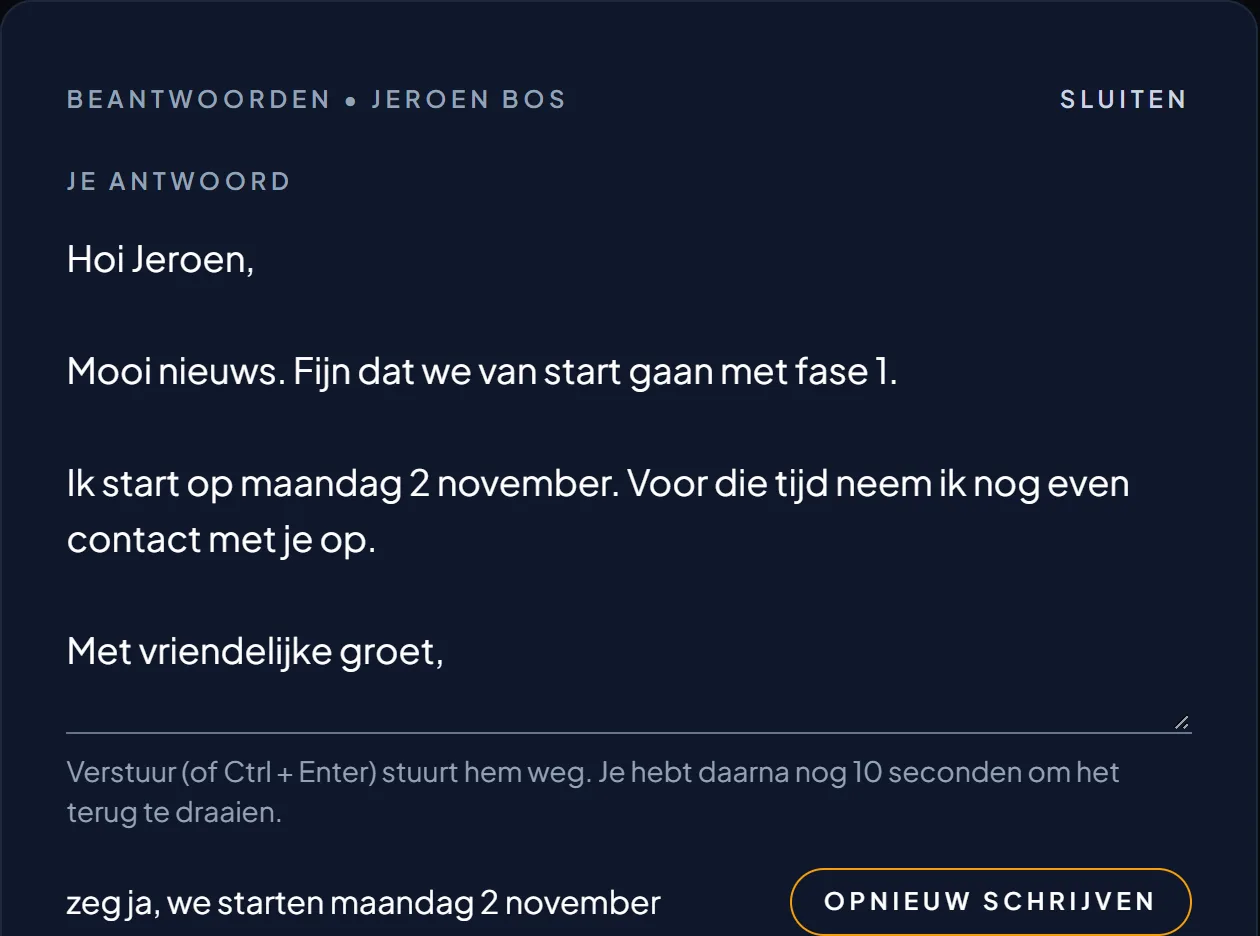
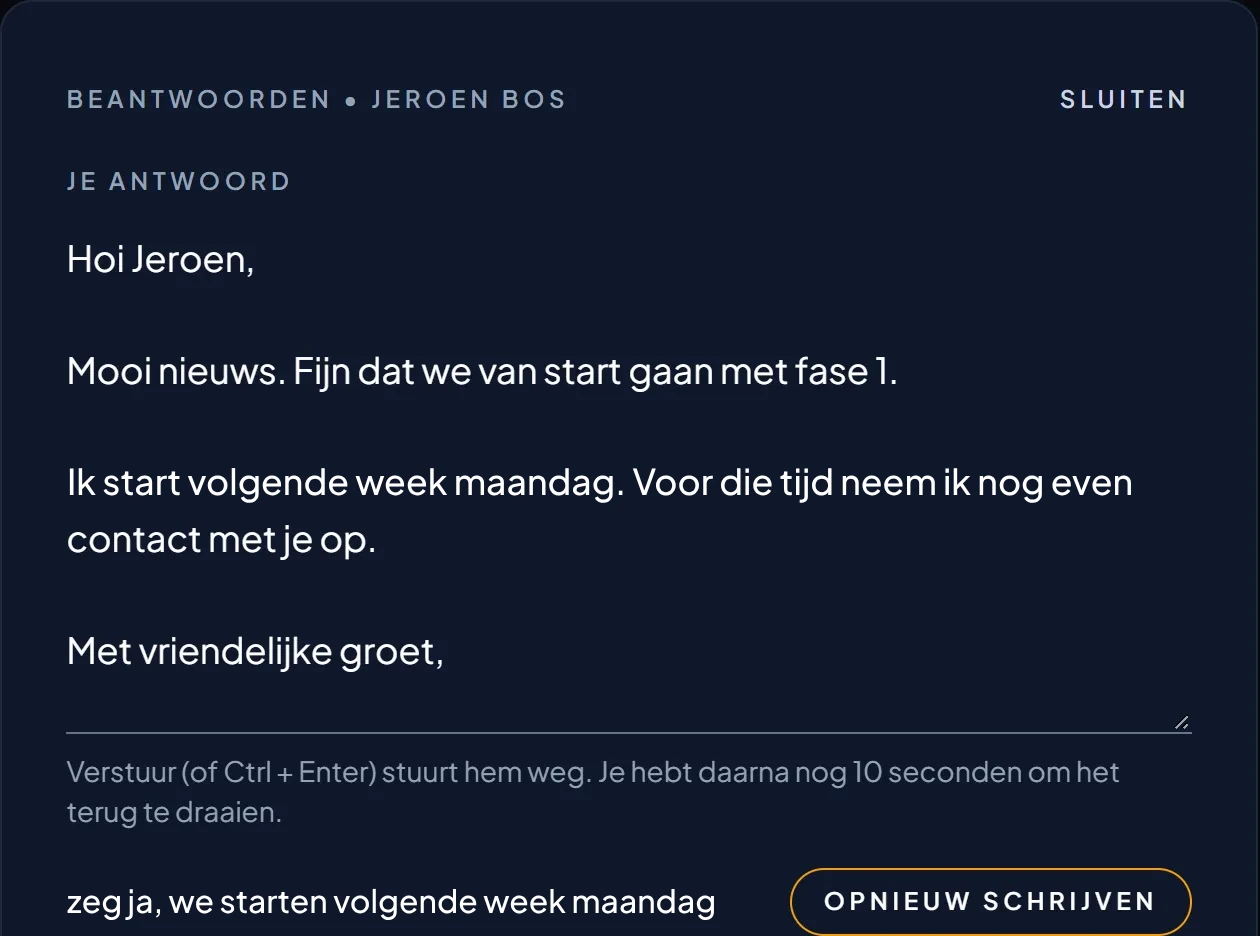
Externe check van 2 november verwerkt
- Film: "maandag 2 november" wordt "volgende week maandag", zodat het beeld niet veroudert
- Afspeelknop rechtsboven op het beeld, op de telefoon alleen de afspeelknop, zodat hij geen tekst bedekt
- Werk: de kaart vertelt nu de vraag (losse programma's), wat ik maakte en wat het opleverde
- Over: eerste zin met "goed in hun vak", consultancy in de verleden tijd, "voor iets groters", dubbele "Lezen doe ik zelf" eruit
- Aanpak: "Daarom duurt een eerste versie twee weken en geen middag", stap 4 "Iets wat je echt gebruikt"
- Begin: "je werk van de eerste aanvraag tot de factuur, je website en de programma's"; "Je spreekt altijd met mij"
- Rekenhulp: kleine getallen in woorden ("ruim drie werkweken")
- Privacy "van me", Over-beschrijving "grote bedrijven", kaart "Een huisstijl voor AI"

Claude-Session: https://claude.ai/code/session_01SC8LXNwsV7QgXano5ofpd4

Changed region(s): [[0.0619, 0.4957, 0.8976, 0.5577], [0.0619, 0.9295, 0.5881, 0.9915]]

diff --git a/src/pages/Over.tsx b/src/pages/Over.tsx
@@ -54,7 +54,7 @@ export function Over() {
             Martijn
           </h1>
           <Typography variant="lead" className="max-w-xl text-xl sm:text-2xl md:text-2xl lg:text-2xl text-pretty">
-            Ik help ondernemers die vastlopen in het digitale eromheen. Met AI maak ik in korte tijd iets wat je kunt{" "}
+            Ik help ondernemers die goed zijn in hun vak, maar vastlopen in het digitale eromheen. Met AI maak ik in korte tijd iets wat je kunt{" "}
             <em className="italic font-normal">gebruiken</em>.
           </Typography>
         </div>
@@ -90,13 +90,13 @@ export function Over() {
           ) : (
             "mijn eigen programma"
           )}
-          . Outlook hoef ik niet meer te openen. Lezen doe ik nog steeds zelf.
+          . Outlook hoef ik niet meer te openen.
         </p>
       </Row>
 
       <Row id="gezien" title="Ik zag hoe techniek het werk zwaarder kan maken">
         <p>
-          Vanuit consultancy bepaal ik al tien jaar bij grote bedrijven in verschillende sectoren wat er gemaakt wordt en
+          In tien jaar consultancy bij grote bedrijven in verschillende sectoren bepaalde ik wat er gemaakt werd en
           waarom. Steeds zag ik hetzelfde: schermen
           die ingewikkelder waren dan nodig en stappen met de hand die het werk ophielden. Het extra werk kwam terecht bij
           de mensen die het al druk hadden.
@@ -106,8 +106,8 @@ export function Over() {
       <Row id="ervaring" title="Wat ik daar leerde, gun ik ook ondernemers">
         <p>
           Een ondernemer heeft meestal niemand in huis die het digitale eromheen al eens heeft ingericht. Ik neem die
-          ervaring mee, zonder de lange trajecten en vergaderingen. Maken kon ik altijd al, maar vaak waren er meerdere
-          mensen voor nodig. Met AI doe ik het nu zelf, in korte tijd.
+          ervaring mee, zonder de lange trajecten en vergaderingen. Maken kon ik altijd al, maar voor iets groters waren
+          vaak meerdere mensen nodig. Met AI doe ik het nu zelf, in korte tijd.
         </p>
         <p>
           Daarom begon ik Studio Kopwerk. Ik heb inmiddels zoveel gezien dat een kleine ingreep vaak al genoeg is om je
@@ -115,7 +115,7 @@ export function Over() {
         </p>
       </Row>
 
-      <Row id="verwachten" title="Je spreekt steeds met mij">
+      <Row id="verwachten" title="Je spreekt altijd met mij">
         <p>
           Het eerste gesprek kan bij jou op de zaak. Ik praat over je werk, niet over techniek.
         </p>

diff --git a/src/components/werk/ProjectCard.tsx b/src/components/werk/ProjectCard.tsx
@@ -33,11 +33,12 @@ function FilmTrigger({ project, children }: { project: Project; children: ReactN
         className="group relative block w-full text-left rounded-2xl"
       >
         <span className="block overflow-hidden rounded-2xl">{children}</span>
-        <span className="absolute left-4 bottom-4 inline-flex items-center gap-3 rounded-full bg-kopwerk-dark/85 pl-2 pr-5 py-2 text-xs font-semibold tracking-wide-xl uppercase text-white shadow-xl shadow-kopwerk-dark/20 backdrop-blur-sm">
+        {/* Top right, over the screen's own chrome rather than its text; on phones only the play disc */}
+        <span className="absolute right-3 top-3 sm:right-4 sm:top-4 inline-flex items-center gap-3 rounded-full bg-kopwerk-dark/85 p-2 sm:pr-5 text-xs font-semibold tracking-wide-xl uppercase text-white shadow-xl shadow-kopwerk-dark/20 backdrop-blur-sm">
           <span className="flex size-8 items-center justify-center rounded-full bg-white/15 transition-colors duration-500 ease-kopwerk group-hover:bg-amber-400 group-focus-visible:bg-amber-400">
             <Icon name="play" className="size-3.5 translate-x-px transition-colors duration-500 ease-kopwerk group-hover:text-slate-950 group-focus-visible:text-slate-950" />
           </span>
-          Bekijk hoe het werkt
+          <span className="sr-only sm:not-sr-only">Bekijk hoe het werkt</span>
         </span>
       </button>
       {/* If the film can't load (offline, or a stale tab after a deploy), the click does nothing rather than break the page */}

diff --git a/src/components/werk/Rekenhulp.tsx b/src/components/werk/Rekenhulp.tsx
@@ -3,13 +3,17 @@ import { useId, useState, type ChangeEvent } from 'react';
 // Working weeks in a year, after holidays.
 const WEKEN = 46;
 
+// Small numbers in running text are written as words, like everywhere else on the site.
+const woorden = ['nul', 'een', 'twee', 'drie', 'vier', 'vijf', 'zes', 'zeven', 'acht', 'negen', 'tien', 'elf', 'twaalf'];
+const inWoorden = (n: number) => woorden[n] ?? String(n);
+
 /** What the hours come down to, in days or weeks you get back. */
 function vertaling(uren: number) {
   const weken = uren / 40;
-  if (weken >= 1.5) return `Dat zijn ruim ${Math.floor(weken)} werkweken die je aan je vak kunt besteden.`;
+  if (weken >= 1.5) return `Dat zijn ruim ${inWoorden(Math.floor(weken))} werkweken die je aan je vak kunt besteden.`;
   if (weken >= 0.75) return 'Dat is bijna een hele werkweek.';
   const dagen = Math.max(1, Math.round(uren / 8));
-  return dagen === 1 ? 'Dat is een werkdag die je terugkrijgt.' : `Dat zijn ${dagen} werkdagen die je terugkrijgt.`;
+  return dagen === 1 ? 'Dat is een werkdag die je terugkrijgt.' : `Dat zijn ${inWoorden(dagen)} werkdagen die je terugkrijgt.`;
 }
 
 /**

diff --git a/src/pages/Home.tsx b/src/pages/Home.tsx
@@ -110,8 +110,8 @@ export function Home() {
               digitale eromheen.
             </Typography>
             <Typography variant="sublead" className="max-w-xl text-balance">
-              Wij maken het eenvoudig met AI: van de eerste aanvraag tot de factuur, met je website en de programma's die daarbij
-              horen.
+              Wij maken het eenvoudig met AI: je werk van de eerste aanvraag tot de factuur, je website en de programma's die
+              daarbij horen.
             </Typography>
           </div>
         </div>
@@ -134,13 +134,13 @@ export function Home() {
         align="start"
         {...at()}
       >
-        <p>Wat we maken, hangt af van waar het knelt.</p>
+        <p>Wat we maken hangt af van waar het knelt.</p>
         <p>Kies wat bij jou knelt. Dan zie je wat we ervoor maken.</p>
       </Block>
 
       <Block
         id="martijn"
-        title="Je spreekt steeds met mij"
+        title="Je spreekt altijd met mij"
         media={<Portret className="w-48 sm:w-64 lg:w-80 lg:self-center" />}
         {...at()}
       >

diff --git a/src/pages/Aanpak.tsx b/src/pages/Aanpak.tsx
@@ -22,7 +22,7 @@ const stappen: [string, ReactNode][] = [
     'Binnen twee weken een eerste versie',
     'Met voorbeeldgegevens. Je ziet het en zegt wat klopt. Eén ronde aanpassen hoort erbij.',
   ],
-  ['Iets wat je elke dag gebruikt', 'Een website, een programma of werk dat vanzelf gaat. Geen rapport.'],
+  ['Iets wat je echt gebruikt', 'Een website, een programma of werk dat vanzelf gaat. Geen rapport.'],
 ];
 
 // What a reader still wants to know before mailing, answered in a sentence or two each.
@@ -190,7 +190,10 @@ export function Aanpak() {
           items={['Meer schermen.', 'Meer stappen.']}
           rest="Wat ertoe doet."
         />
-        <p>Wat ertoe doet, zie je het snelst door het te maken, samen met de mensen voor wie het is.</p>
+        <p>
+          Wat ertoe doet, zie je het snelst door het te maken, samen met de mensen voor wie het is. Daarom duurt een
+          eerste versie twee weken en geen middag.
+        </p>
       </Chapter>
 
       <Chapter

diff --git a/src/lib/kleine-dingen.ts b/src/lib/kleine-dingen.ts
@@ -36,12 +36,12 @@ export const kleineDingen: KleinDing[] = [
     grond: 'donker',
   },
   {
-    titel: 'Design system',
+    titel: 'Een huisstijl voor AI',
     soort: 'Huisstijl',
     tekst:
       'Een huisstijl die AI begrijpt: kleuren, letters, knoppen en toon op één plek. Zo komt elke offerte, presentatie en pagina in een paar minuten in je eigen merk.',
     beeld: designSystem,
-    alt: 'Het Kopwerk design system: de letters Syne en Plus Jakarta Sans, vijf kleuren en de knop Vertel waar het knelt.',
+    alt: 'De huisstijl van Kopwerk: de letters Syne en Plus Jakarta Sans, vijf kleuren en de knop Vertel waar het knelt.',
     grond: 'donker',
   },
 ];

diff --git a/src/routes.tsx b/src/routes.tsx
@@ -51,7 +51,7 @@ export function buildRoutes(shown: Project[]): PageRoute[] {
       path: '/over',
       title: 'Over · Studio Kopwerk',
       description:
-        'Ik ben Martijn van Studio Kopwerk. Tien jaar ervaring bij grote organisaties, nu maak ik het digitale eenvoudig voor ondernemers, met AI.',
+        'Ik ben Martijn van Studio Kopwerk. Tien jaar ervaring bij grote bedrijven, nu maak ik het digitale eenvoudig voor ondernemers, met AI.',
     },
     Page: Over,
     slot: { next: { href: '/aanpak', label: 'Lees hoe we werken' } },

diff --git a/src/pages/Privacy.tsx b/src/pages/Privacy.tsx
@@ -104,7 +104,7 @@ export function Privacy() {
       <Part id="rechten" title="Je gegevens blijven van jou">
         <p>
           Wil je weten wat ik van je heb, iets laten aanpassen of alles laten verwijderen? Mail naar{' '}
-          <a href={`mailto:${contactEmail}`}>{contactEmail}</a>. Je hoort binnen een maand van mij.
+          <a href={`mailto:${contactEmail}`}>{contactEmail}</a>. Je hoort binnen een maand van me.
         </p>
         <p>
           Kom je er met mij niet uit, dan kun je een klacht indienen bij de{' '}

diff --git a/src/content/werk/operatie-kopwerk/index.md b/src/content/werk/operatie-kopwerk/index.md
@@ -19,7 +19,7 @@ film:
     alt: "Onder Kan weg een nieuwsbrief, met de knop Alles archiveren."
     tekst: "Wat weg kan, staat apart. Eén klik en het is opgeruimd."
   - beeld: ./film-4-antwoord.webp
-    alt: "Een antwoord in concept aan Jeroen Bos, met eronder de aanwijzing: zeg ja, we starten maandag 2 november."
+    alt: "Een antwoord in concept aan Jeroen Bos, met eronder de aanwijzing: zeg ja, we starten volgende week maandag."
     tekst: "AI schrijft het antwoord, ik stuur bij. Dat scheelt zo'n vijf minuten per mail."
     begin: "Bij mij scheelt het zo'n vijf minuten per mail."
     getal: "5 min"
@@ -31,4 +31,4 @@ film:
     tekst: "AI vertaalt de offerte. Opnieuw opmaken hoeft niet."
 ---
 
-Mijn eigen bedrijf was de eerste opdracht. Offertes, klanten, mail en facturen staan nu in één programma: Operatie Kopwerk. AI bouwde het en schrijft mee, ik beslis wat blijft.
+Mijn eigen bedrijf was de eerste opdracht. Offertes, klanten, mail en facturen zaten in losse programma's. Nu staan ze in één programma: Operatie Kopwerk. AI bouwde het en schrijft mee, ik beslis wat blijft.
